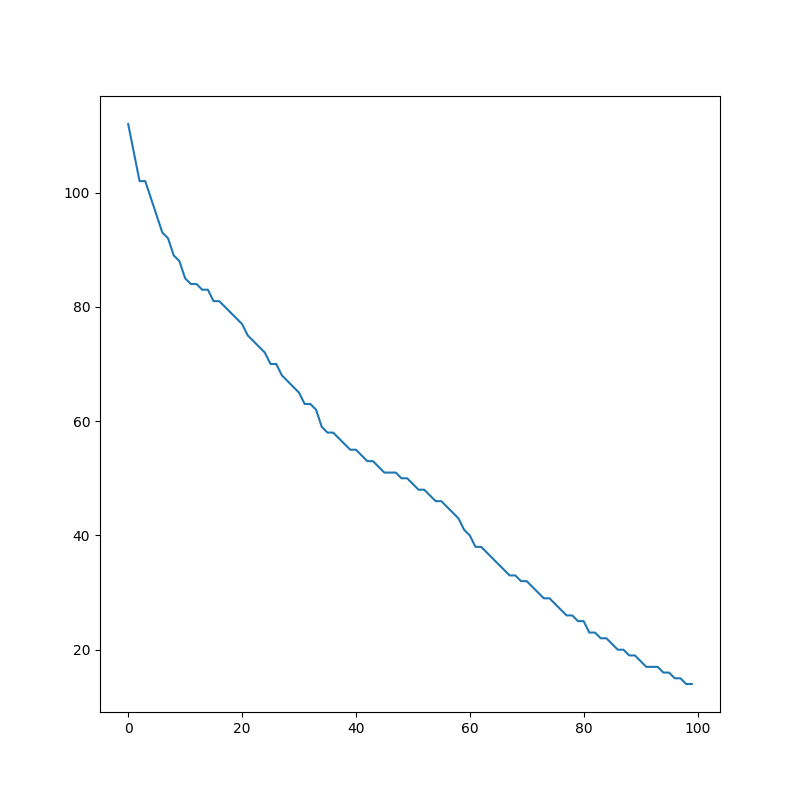
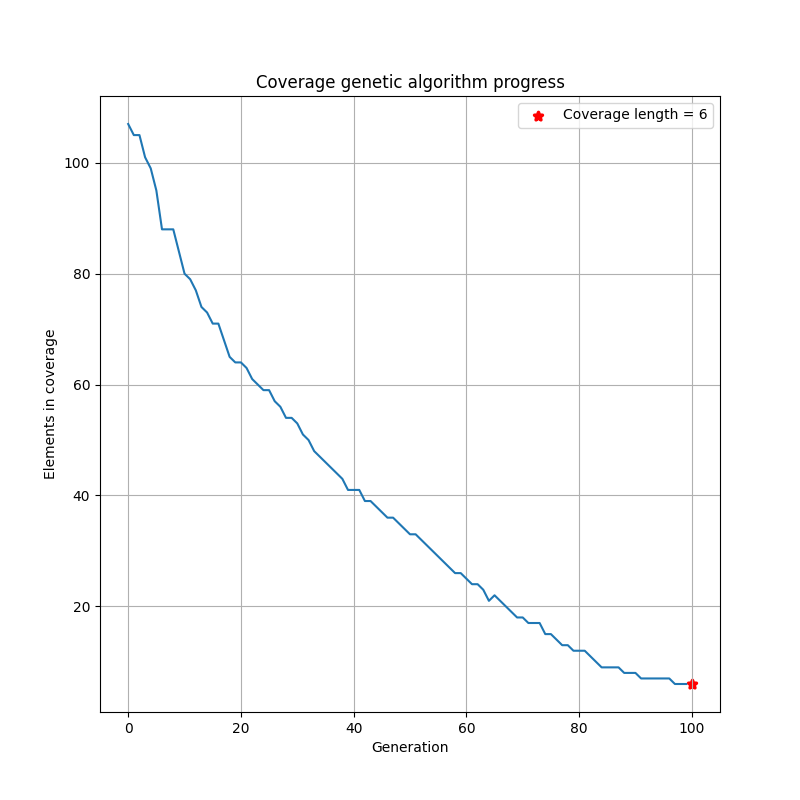
Additional outputs, better plots

diff --git a/simple_genetic.cpp b/simple_genetic.cpp
@@ -5,24 +5,17 @@
 #include <numeric>
 #include <algorithm>
 
-template <typename T>
-std::vector<int> argsort(const std::vector<T> &v) {
-    //Argsort for any type of elem-comparable vectors
-    std::vector<int> idx(v.size());
-    std::iota(idx.begin(), idx.end(), 0);
-
-    std::stable_sort(idx.begin(), idx.end(),
-        [&v](int i1, int i2) {return v[i1] < v[i2];});
-
-    return idx;
-}
+/*
+TODO
+Chromosome is a vector => very bad (try class template?)
+*/
 
 class GeneticAlgorithm;
 
 class Individual {
-public:
     std::vector<bool> chromosome;
 
+public:
     Individual(int chromosome_size)
     {
         double p = 0.5;
@@ -44,20 +37,20 @@ public:
     };
 
 
-    template<std::size_t SIZE1, std::size_t SIZE2>
-    bool is_coverage(std::array<std::array<bool, SIZE1>, SIZE2>& M)
+    template<std::size_t n, std::size_t m>
+    bool is_coverage(std::array<std::array<bool, n>, m>& M)
     {
         //Sum of all taken columns (by rows, we sum rows) shouldn't include zeros
-        std::array<int, SIZE2> rows_sum = {};
-        for(int i = 0; i < SIZE2; i++) {
-            for(int j = 0; j < SIZE1; j++) {
+        std::array<int, m> rows_sum = {};
+        for(int i = 0; i < m; i++) {
+            for(int j = 0; j < n; j++) {
                 if(!chromosome[j])
                     continue;
                 rows_sum[i] += M[i][j];
             }
         }
 
-        for(int i = 0; i < SIZE2; i++) {
+        for(int i = 0; i < m; i++) {
             //std::cout << rows_sum[i] << std::endl;
             if(!rows_sum[i])
                 return false;
@@ -66,11 +59,11 @@ public:
         return true;
     };
 
-    template<std::size_t SIZE1, std::size_t SIZE2>
-    double fitness(std::array<std::array<bool, SIZE1>, SIZE2>& M)
+    template<std::size_t n, std::size_t m>
+    double fitness(std::array<std::array<bool, n>, m>& M)
     {
         if(!is_coverage(M))
-            return SIZE1 + 1;
+            return n + 1;
 
         int sum = 0;
         for(auto elem: chromosome) {
@@ -80,10 +73,18 @@ public:
     };
 
     friend GeneticAlgorithm;
+    friend std::ostream& operator<<(std::ostream& os, const Individual& I);
+};
+
+std::ostream& operator<<(std::ostream& os, const Individual& I)
+{
+    for(int i = 0; i < I.chromosome.size(); i++) {
+        os << I.chromosome[i] << " ";
+    }
+    return os;
 };
 
 class GeneticAlgorithm {
-public:
     std::vector<Individual> population;
     std::vector<int> scores;
 
@@ -94,6 +95,19 @@ public:
     int extended_population_size;
     double mutation_proba;
 
+    template <typename T>
+    std::vector<int> argsort(const std::vector<T> &v) {
+        //Argsort for any type of elem-comparable vectors
+        std::vector<int> idx(v.size());
+        std::iota(idx.begin(), idx.end(), 0);
+
+        std::stable_sort(idx.begin(), idx.end(),
+            [&v](int i1, int i2) {return v[i1] < v[i2];});
+
+        return idx;
+    }
+
+public:
     GeneticAlgorithm(int population_size, int extended_population_size, int chromosome_len,
                      double mutation_proba, int max_iter = 100)
     {
@@ -141,8 +155,8 @@ public:
         return Individual(new_chromosome);
     };
 
-    template<std::size_t SIZE1, std::size_t SIZE2>
-    void fit(std::array<std::array<bool, SIZE1>, SIZE2>& M) {
+    template<std::size_t n, std::size_t m>
+    void fit(std::array<std::array<bool, n>, m>& M) {
         //CROSSOVER (creating extended population)
         int delta = extended_population_size - population_size;
         int chromosome_len = population[0].chromosome.size();
@@ -176,7 +190,6 @@ public:
             //Get scores
             std::vector<double> scores;
             for(int j = 0; j < extended_population_size; j++) {
-                //WARNING
                 scores.push_back(extended_population[j].fitness(M));
             }
 
@@ -193,7 +206,7 @@ public:
             population = best;
         }
 
-        //std::cout << "Learning finished!" << std::endl;
+        std::cout << "Learning finished!" << std::endl;
     };
 
     std::vector<bool> get_best_chromosome()
@@ -201,10 +214,24 @@ public:
         return population[0].chromosome;
     };
 
-    int f()
+    template<std::size_t n, std::size_t m>
+    void print_solution(std::array<std::array<bool, n>, m>& M)
     {
-        //test values
-        return population[0].chromosome[0];
+        if(n > 25) {
+            std::cout << "WARNING: Coverage output can be too huge." << std::endl;
+        }
+
+        std::cout << "Best chromosome: " << get_best_chromosome() << std::endl;
+        std::cout << "Coverage: " << std::endl;
+        std::vector<bool> best = get_best_chromosome();
+        for(int i = 0; i < m; i++) {
+            for(int j = 0; j < n; j++) {
+                if(!best[j])
+                    continue;
+                std::cout << M[i][j] << " ";
+            }
+            std::cout << std::endl;
+        }
     };
 };
 
@@ -216,7 +243,7 @@ int main()
     std::array<std::array<bool, n>, m> M = {};
 
     //int population_size, int extended_population_size, int chromosome_len, double mutation_proba, int max_iter = 100
-    GeneticAlgorithm A = GeneticAlgorithm(15, 75, n, 0.15, 100);
+    GeneticAlgorithm A = GeneticAlgorithm(50, 150, n, 0.2, 100);
 
     double p = 0.5;
     std::random_device rd{};
@@ -232,6 +259,7 @@ int main()
 
 
     A.fit(M);
+    //A.print_solution(M);
 
     return 0;
 }

diff --git a/plot.py b/plot.py
@@ -1,9 +1,18 @@
 from matplotlib import pyplot as plt
 
 a = []
+n=100
 for i in range(100):
     a.append(int(input()))
 
 figure, ax = plt.subplots(1, figsize=(8, 8))
 ax.plot(a)
+ax.scatter(n, a[-1], c='r', linewidth=2.5, marker="*", label=f"Coverage length = {a[-1]}")
+
+ax.set_title("Coverage genetic algorithm progress")
+ax.set_xlabel("Generation")
+ax.set_ylabel("Elements in coverage")
+ax.grid(True)
+ax.legend()
+
 plt.savefig("./Plot.png")
